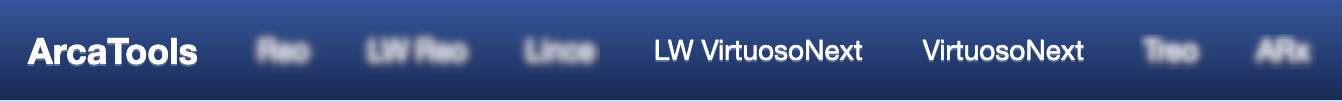
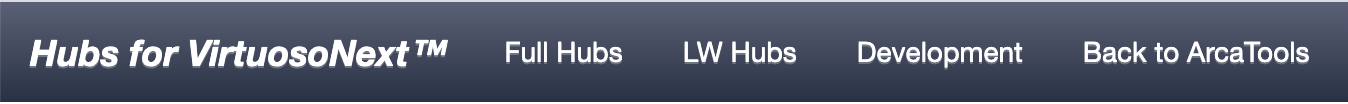
taks examples in docs

diff --git a/docs/source/try-it.rst b/docs/source/try-it.rst
@@ -11,8 +11,8 @@ Lightweight vs Server mode
     Lightweight vs Server mode
 
 While the toolset is developed in Scala, the code is compiled both into *JVM*
-binaries that are executed on a **server** (*VirtuosoNext*), and into **JavaScript** using
-`ScalaJS <https://wwws.scala- js.org>`_ to produce an interactive web page (*LW VirtuosoNext*).
+binaries that are executed on a **server** (*Full Hubs*), and into **JavaScript** using
+`ScalaJS <https://wwws.scala- js.org>`_ to produce an interactive web page (*LW Hubs*).
 
 Both versions provide *almost* the same functionality, with the server
 additionally supporting the live verification of properties through the Uppaal model checker.
@@ -123,22 +123,65 @@ These can be:
  * non-waiting (NW) – either the requests is served without delay or the request fails
  * waiting with time-out (WT) – waits either until the request is served or the specified time-out has expired.
 
-For example, the following code specifies a task named T1, with an input port ..
+.. note::
 
-.. code:: haskell
-
-    task<T1>(W a?, 4 b!, NW c!)
-
-
-
-.. code:: haskell
-
-    task<T1>(W a?, 4 b!, NW c!) every 5
+    When using the ``every`` construct,
+    the ``n`` must be higher or equal to the total amount of time
+    the task can wait to succeed on requests to its ports. For example,
+    ``task<T1>(4 a!, 5 b!) every 10`` is valid: 4+5 <= 10, while
+    ``task<T1>(NW a!, 5 b!) every 3`` is invalid: 5 > 3.
+    As a consequence, these task cannot have a waiting interaction (``W``).
 
 
+Examples
+""""""""
 
-Tasks are defined as an order sequence of input or output ports,
-each of which can connect to the environment in that order, following as well a specified interaction semantics.
+The following code specifies a task named ``T1``,
+with an input port ``a`` and an output port ``b``.
+
+..  code:: haskell
+
+        task<T1>(W a?, 4 b!)
+
+
+``T1`` first tries to read from the environment on port ``a`` waiting until it succeeds (``W``).
+When it succeeds, it tries to send data through ``b``, but it waits only ``4`` units of time, after this time
+whether it succeeds, it starts again, trying to read in ``a``.
+This semantics is given by the following THA.
+
+.. figure:: _static/imgs/tha/t1.png
+    :align: center
+    :scale: 30 %
+
+    ``T1`` semantics
+
+
+Similarly, the following code specifies a task named ``T2``,
+with an output port ``c``.
+The task **periodically** tries to send data through ``c`` ``every 5`` units of time.
+
+.. code-block:: haskell
+
+    task<T2>(NW c!) every 5
+
+Informally, the tasks tries to send data through ``c`` without waiting (``NW``).
+Whether it succeeds, it will wait 5 units of time before starting again and trying to send data again.
+Formally, this semantics is given by the following THA.
+
+.. figure:: _static/imgs/tha/t2.png
+    :align: center
+    :scale: 30 %
+
+    ``T2`` semantics
+
+Composition
+^^^^^^^^^^^
+
+Preo syntax
+"""""""""""
+
+Treo syntax
+"""""""""""
 
 Circuit of the instance
 -----------------------

diff --git a/docs/source/install.rst b/docs/source/install.rst
@@ -62,8 +62,9 @@ by opening
 
 .. prompt:: bash
 
-    open site/hubs.html#lwhubs
+    open site/hubs.html
 
+and accessing the *LW Hubs* tab.
 
 This lightweight version is a single javascript file autogenerated during compilation,
 and gives access to most of the tools.
